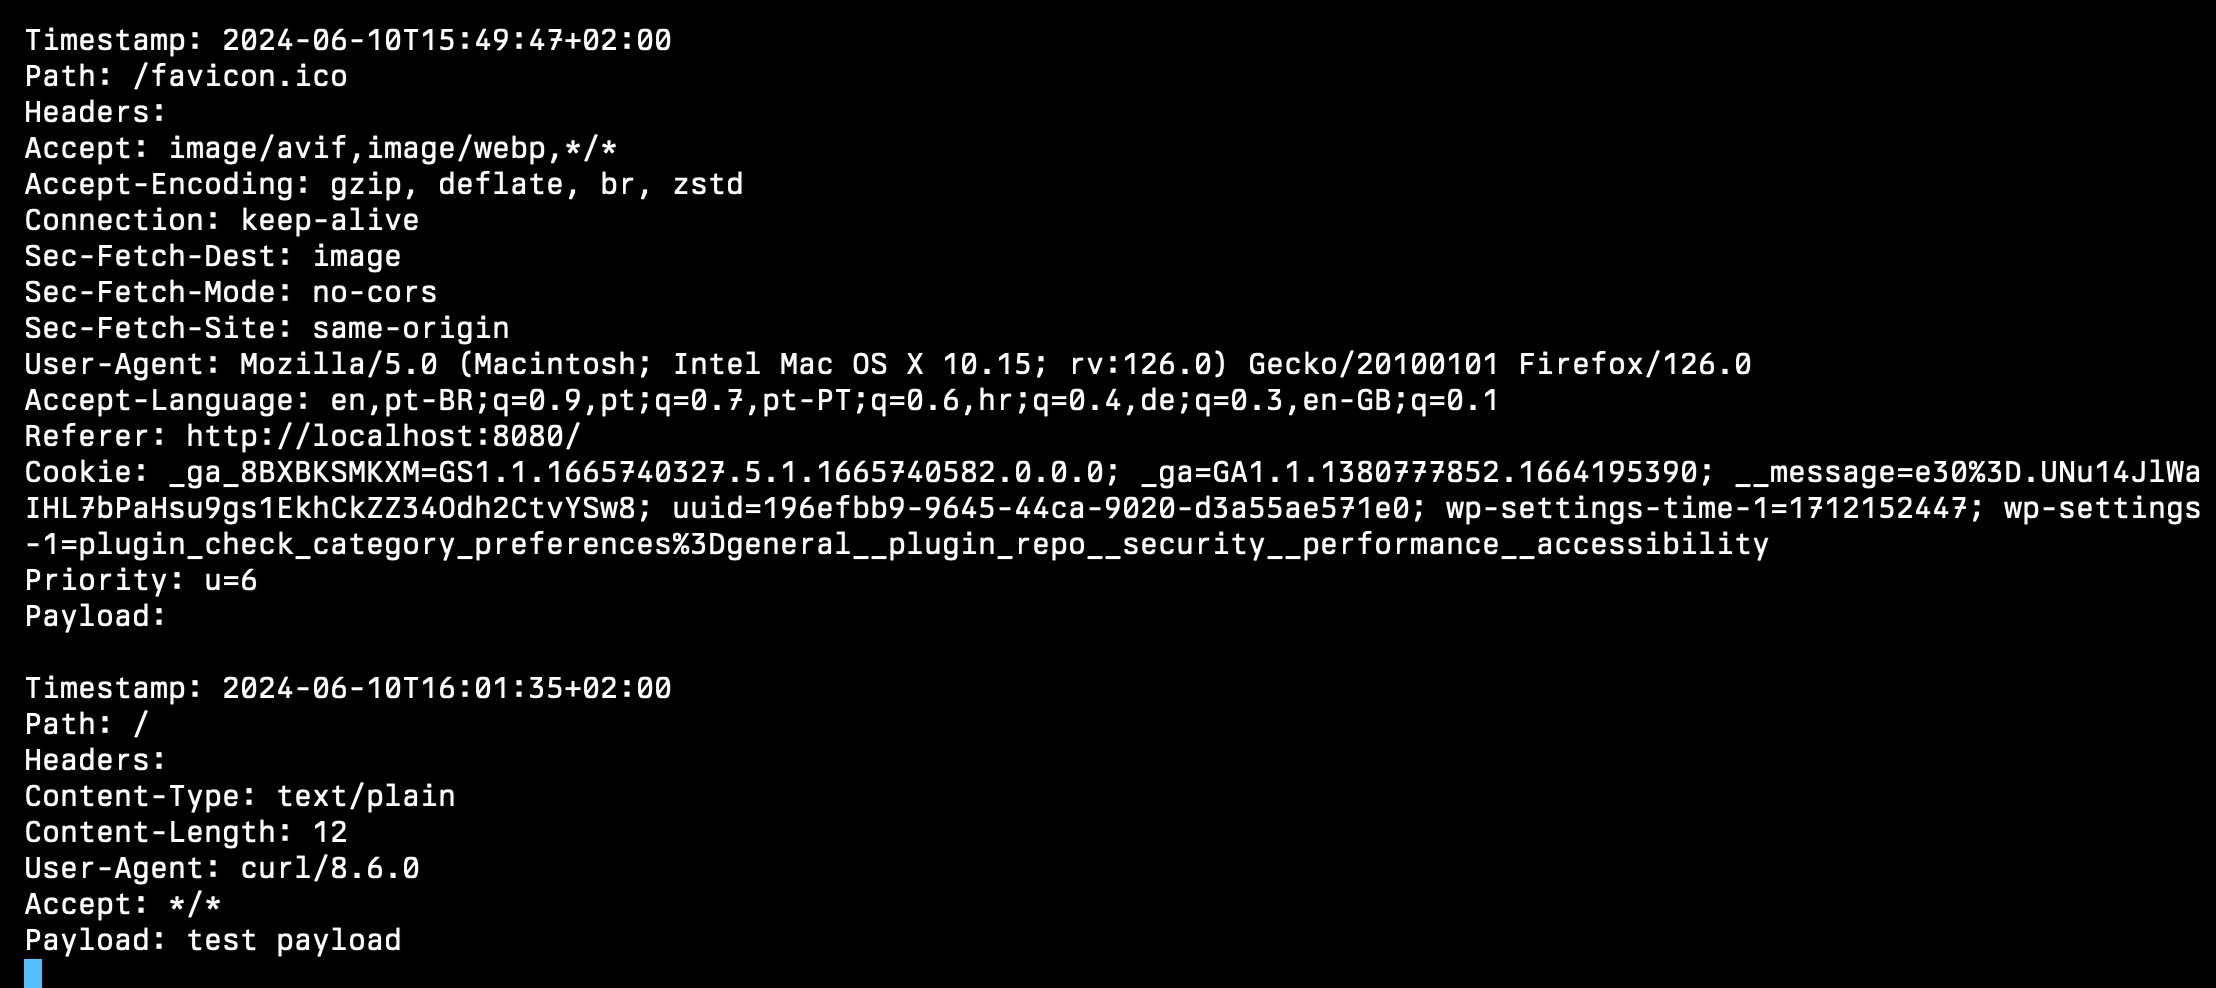
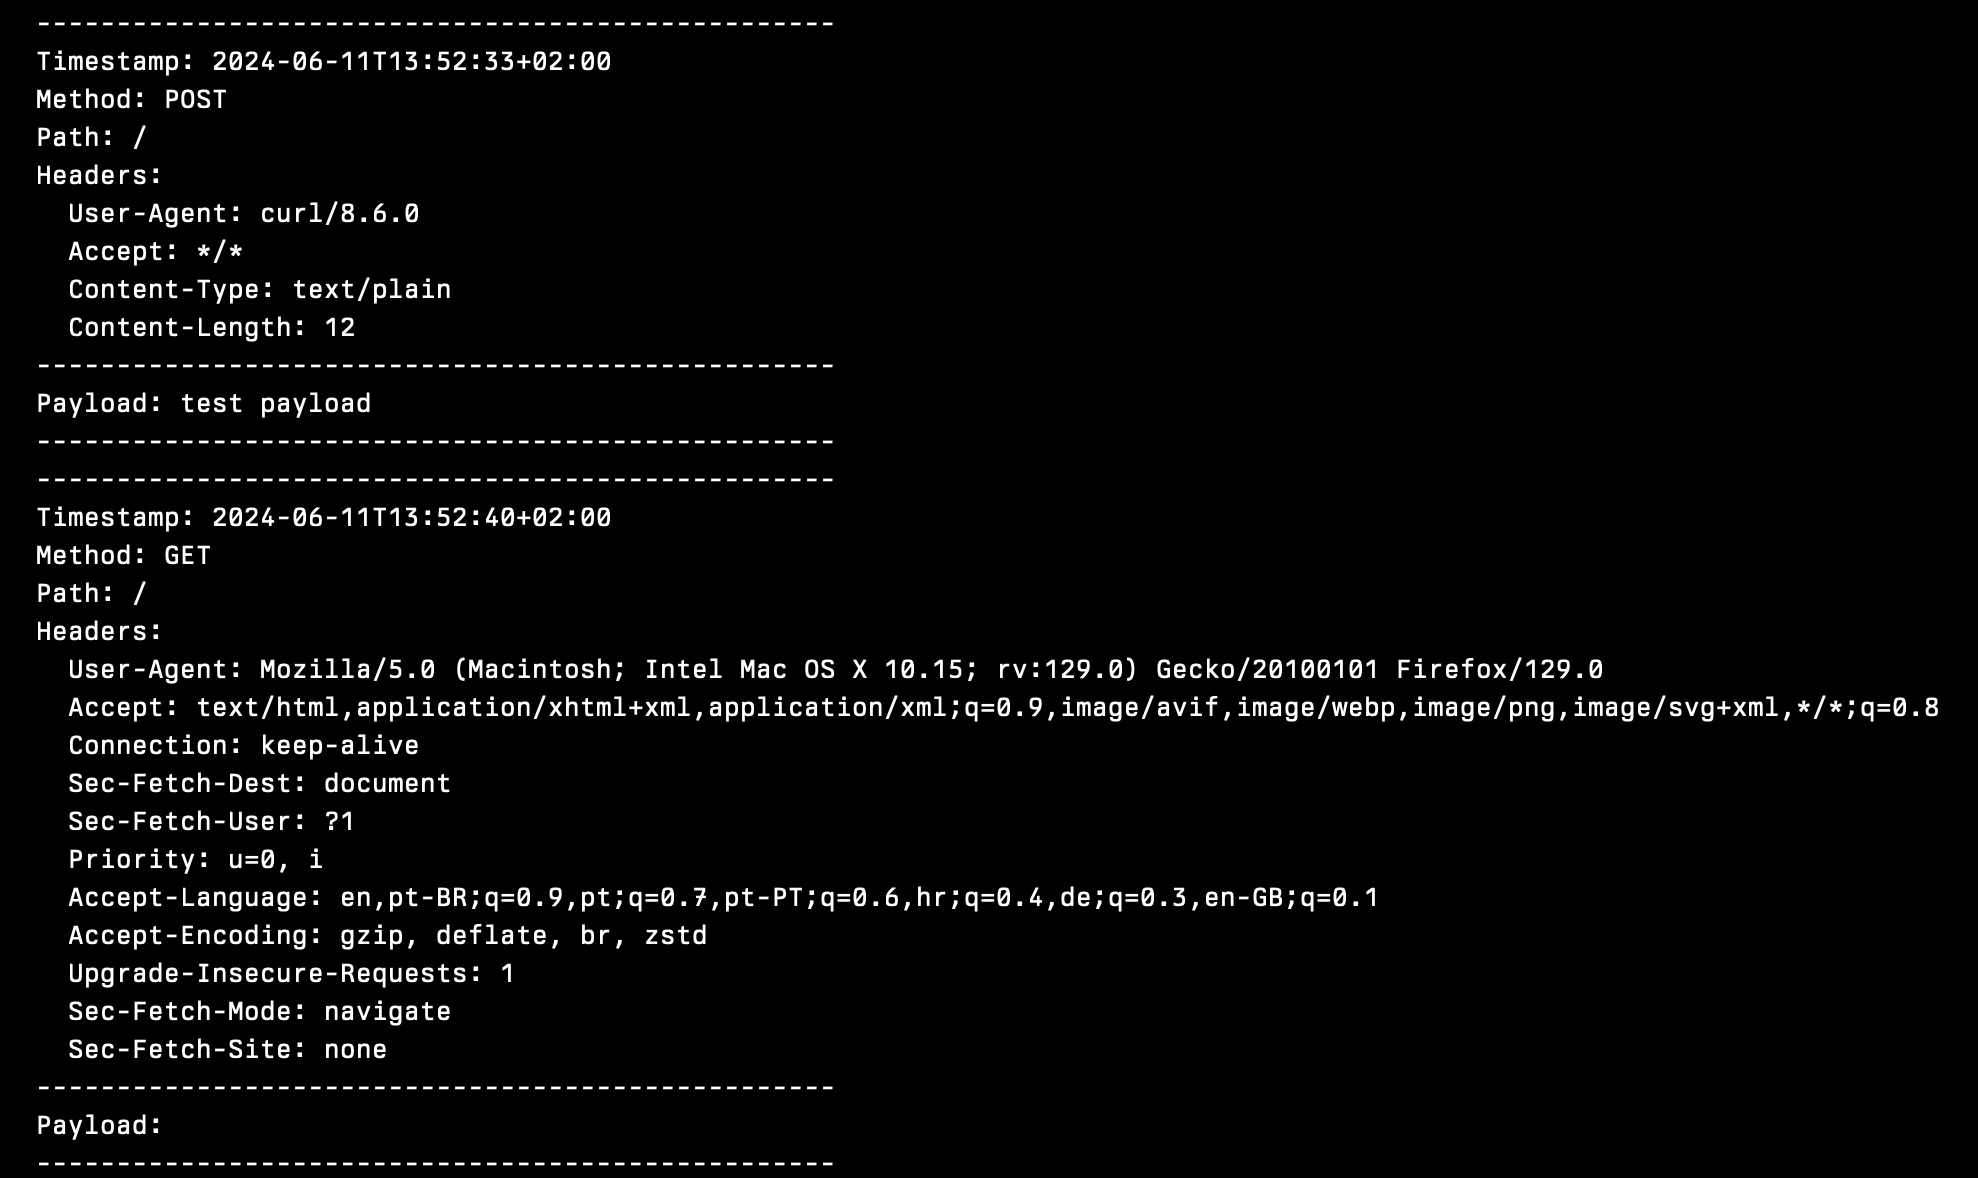
making it more verbose

Changed region(s): [[0.0, 0.0, 1.0, 1.0]]

diff --git a/main.go b/main.go
@@ -6,18 +6,21 @@ import (
 	"io"
 	"log"
 	"net/http"
+	"strings"
 	"time"
 )
 
 func handler(w http.ResponseWriter, r *http.Request) {
-	fmt.Println()
+	separator := strings.Repeat("-", 50)
+	fmt.Println(separator)
 	fmt.Printf("Timestamp: %s\n", time.Now().Format(time.RFC3339))
+	fmt.Printf("Method: %s\n", r.Method)
 	fmt.Printf("Path: %s\n", r.URL.Path)
 
 	fmt.Println("Headers:")
 	for key, values := range r.Header {
 		for _, value := range values {
-			fmt.Printf("%s: %s\n", key, value)
+			fmt.Printf("  %s: %s\n", key, value)
 		}
 	}
 
@@ -27,7 +30,9 @@ func handler(w http.ResponseWriter, r *http.Request) {
 		return
 	}
 
+	fmt.Println(separator)
 	fmt.Printf("Payload: %s\n", body)
+	fmt.Println(separator)
 
 	w.WriteHeader(http.StatusOK)
 	w.Write([]byte("Received"))

diff --git a/README.md b/README.md
@@ -60,11 +60,18 @@ curl -X POST http://localhost:9090 -d "test payload" -H "Content-Type: text/plai
 The server logs:
 
 ```
-Timestamp: 2023-06-08T15:04:05Z
+--------------------------------------------------
+Timestamp: 2024-06-11T13:52:33+02:00
+Method: POST
 Path: /
 Headers:
-Content-Type: text/plain
+  User-Agent: curl/8.6.0
+  Accept: */*
+  Content-Type: text/plain
+  Content-Length: 12
+--------------------------------------------------
 Payload: test payload
+--------------------------------------------------
 ```
 
 ### Downloads
